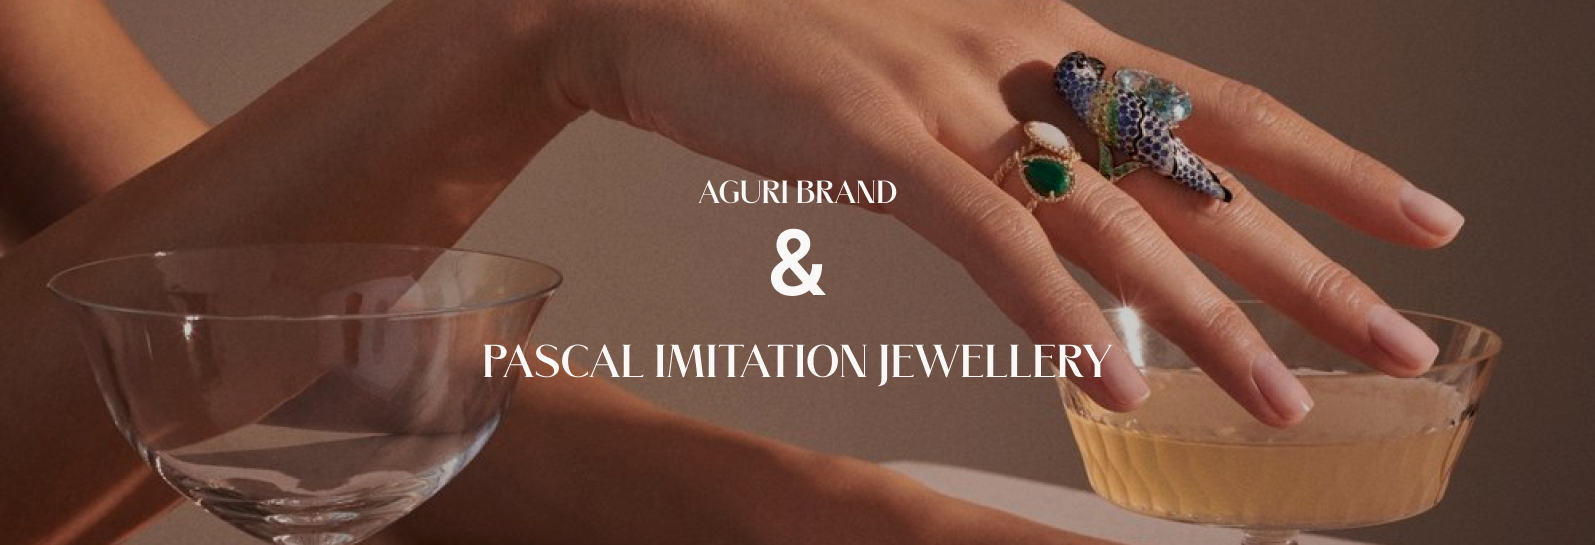
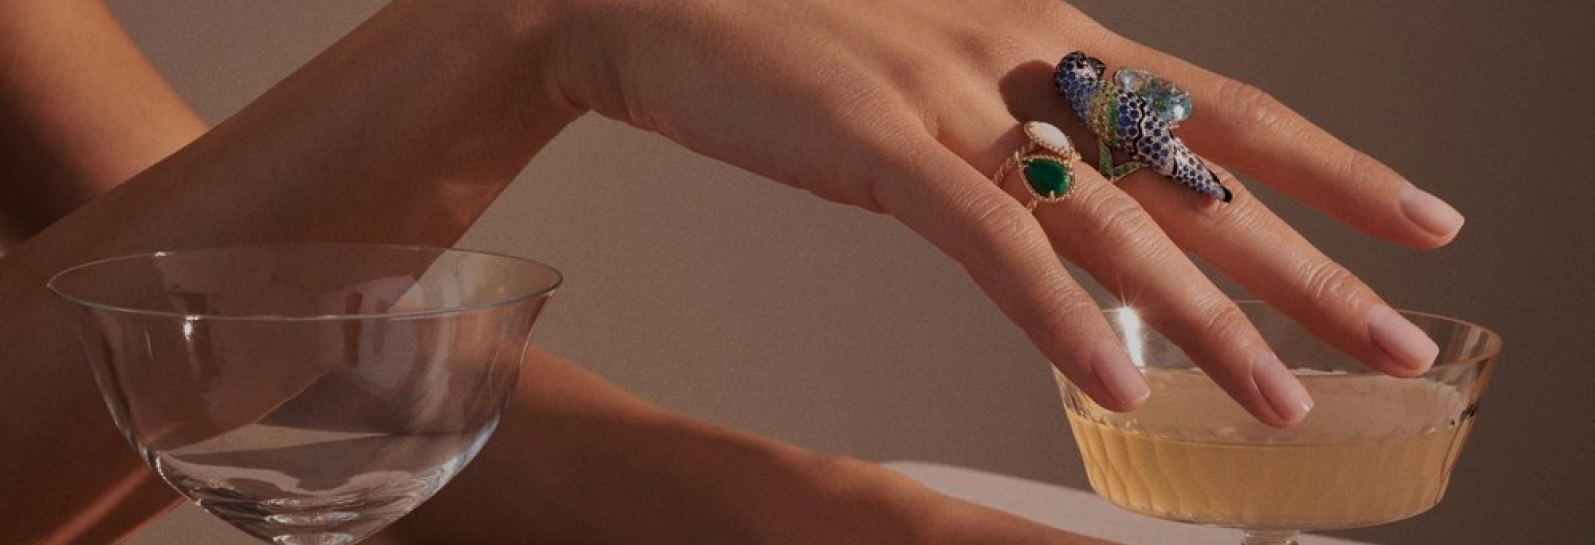
commit code

Changed region(s): [[0.2765, 0.6239, 0.7066, 0.7174], [0.4608, 0.4055, 0.5223, 0.5615], [0.4301, 0.3119, 0.5837, 0.3743]]

diff --git a/src/app/pages/about-us/about-us.component.html b/src/app/pages/about-us/about-us.component.html
@@ -13,9 +13,14 @@
       that may otherwise be obsolete reclaimed or ethically.
     </div>
   </div>
-  <div class="row pbt-100">
-      <div class="col">
+  <div class="intro-img row pbt-100">
+      <div class="col-12">
         <img src="./assets/img/about-us/1.png" />
+      </div>
+      <div class="intro-img-text text-center">
+        <h5>AGURI BRAND</h5>
+        <h2>&</h2>
+        <h4>PASCAL IMITATION JEWELLERY</h4>
       </div>
   </div>
 
@@ -35,7 +40,7 @@
 </div>
 
 <!--our-vision-->
-<div class="our-vision pbt-100">
+<div class="our-vision">
   <div class="our-vision-img">
     <img src="./assets/img/about-us/3.png" />
   </div>
@@ -55,7 +60,7 @@
 
 <div class="container">
   <!--our-mission-->
-  <div class="row pbt-100">
+  <div class="row our-mission pbt-100">
     <div class="our-mission-text col-5">
       <div class="col-6"><h4>Our Mission</h4></div>
       <div class="col-6"><hr></div>

diff --git a/src/app/app.component.html b/src/app/app.component.html
@@ -25,9 +25,10 @@
     </div>
   </div>
 </header>
+
 <!--NAVBAR-->
 <nav>
-  <div class="container card-nav  border-0">
+  <div class="container pbt-100 border-0">
     <ul class="nav justify-content-center">
       <li class="nav-item"><a class="nav-link" routerLink="/">Home</a></li>
       <!--dropdown-menu-start-->
@@ -101,6 +102,11 @@
           <button class="btn btnsm btn-pri" type="submit">Join now</button>
         </form>
       </div>
+    </div>
+
+    <!--copy-right-->
+    <div class="copy-right text-center">
+      <p>© AGURI&PIJ.2022</p>
     </div>
   </div>
 </footer>

diff --git a/src/app/pages/guide/guide.component.html b/src/app/pages/guide/guide.component.html
@@ -86,7 +86,7 @@
       <p class="mtp">Though our AGURI jewelry designs are made to be enjoyed forever, sometimes unpleasant surprises happen.
         With this in mind, it’s best to be prepared and insured. We recommend Jeweler’s Mutual for jewelry insurance,
         as many of our past customers have had great experiences working with them.</p>
-      <button class="btn-sm" onclick="alert('Loading...')">Read more</button>
+      <button class="btn" onclick="alert('Loading...')">Read more</button>
     </div>
     <div class="col-3"></div>
   </div>

diff --git a/src/app/pages/about-us/about-us.component.css b/src/app/pages/about-us/about-us.component.css
@@ -4,6 +4,21 @@
 .about-us{
   margin-top: 100px;
 }
+
+/*introduction*/
+.intro-img {
+  position: relative;
+  display: flex;
+  justify-content: center;
+  align-items: center;
+}
+
+.intro-img-text {
+  position: absolute;
+  color: #FAF8F6;
+  margin: auto;
+}
+
 /*the-brand*/
 .the-brand {
   position: relative;
@@ -16,9 +31,9 @@
 /**/
 
 /*our-vision*/
-.our-vision {
-  margin-bottom: 100px;
-}
+/*.our-vision {*/
+/*  margin-bottom: 100px;*/
+/*}*/
 
 .our-vision-img {
   width: fit-content;

diff --git a/src/styles.css b/src/styles.css
@@ -39,9 +39,8 @@ a:hover{
 .mtp{
   margin-top:25px;
 }
-p{
-  margin:0px !important;
-  padding:0px !important;
+.pbt-100 {
+  padding-bottom: 100px;
 }
 
 /*COLOR*/
@@ -65,7 +64,6 @@ h2, h3, h4, h5 {
 .smt{
   font-size: 14px;
 }
-
 
 /*INPUT*/
 .inpu{
@@ -201,6 +199,11 @@ nav li:nth-child(1){
 .subscribe-form button{
   width:100%;
   margin-top:16px;
+}
+.copy-right {
+  color: #666666;
+  padding-top: 50px;
+  padding-bottom: 100px;
 }
 
 /*PRODUCT-DETAIL-PAGE*/

diff --git a/src/app/pages/guide/guide.component.css b/src/app/pages/guide/guide.component.css
@@ -8,6 +8,16 @@
   margin-bottom: 50px;
 }
 
+.insurance .btn {
+  width: 30%;
+  padding: 12.5px;
+}
+
+.insurance .btn:hover {
+  background-color: #000;
+  color: #fff;
+}
+
 .jewellery-care li {
   list-style-type: disc;
   margin-inline-start: 20px;
